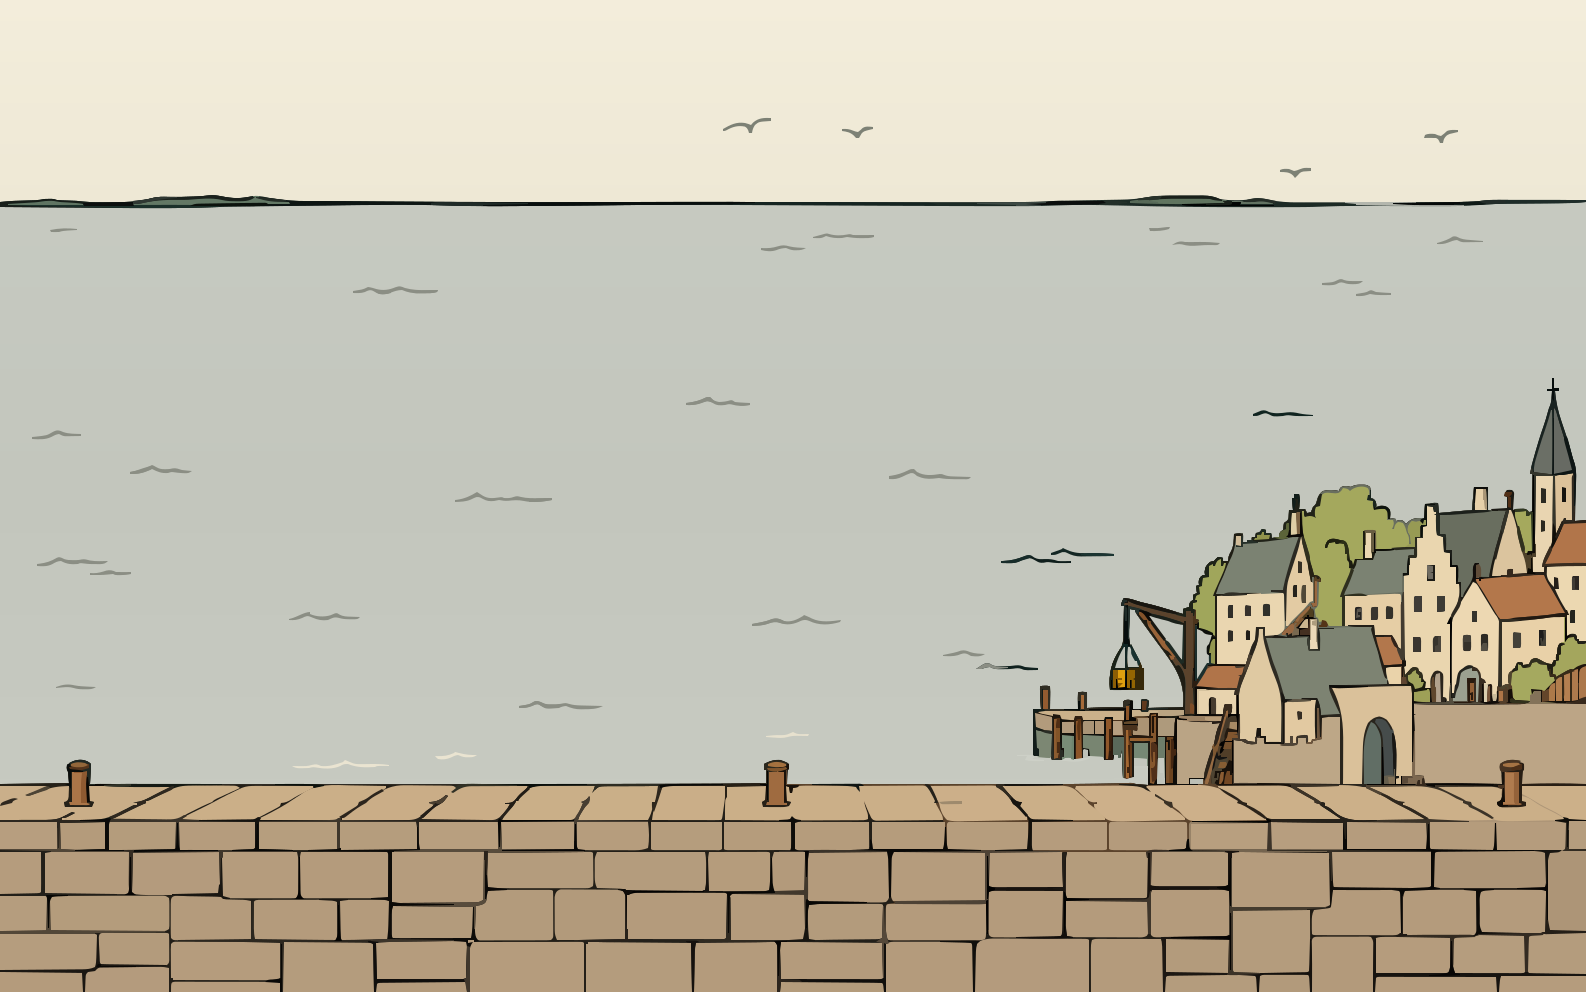
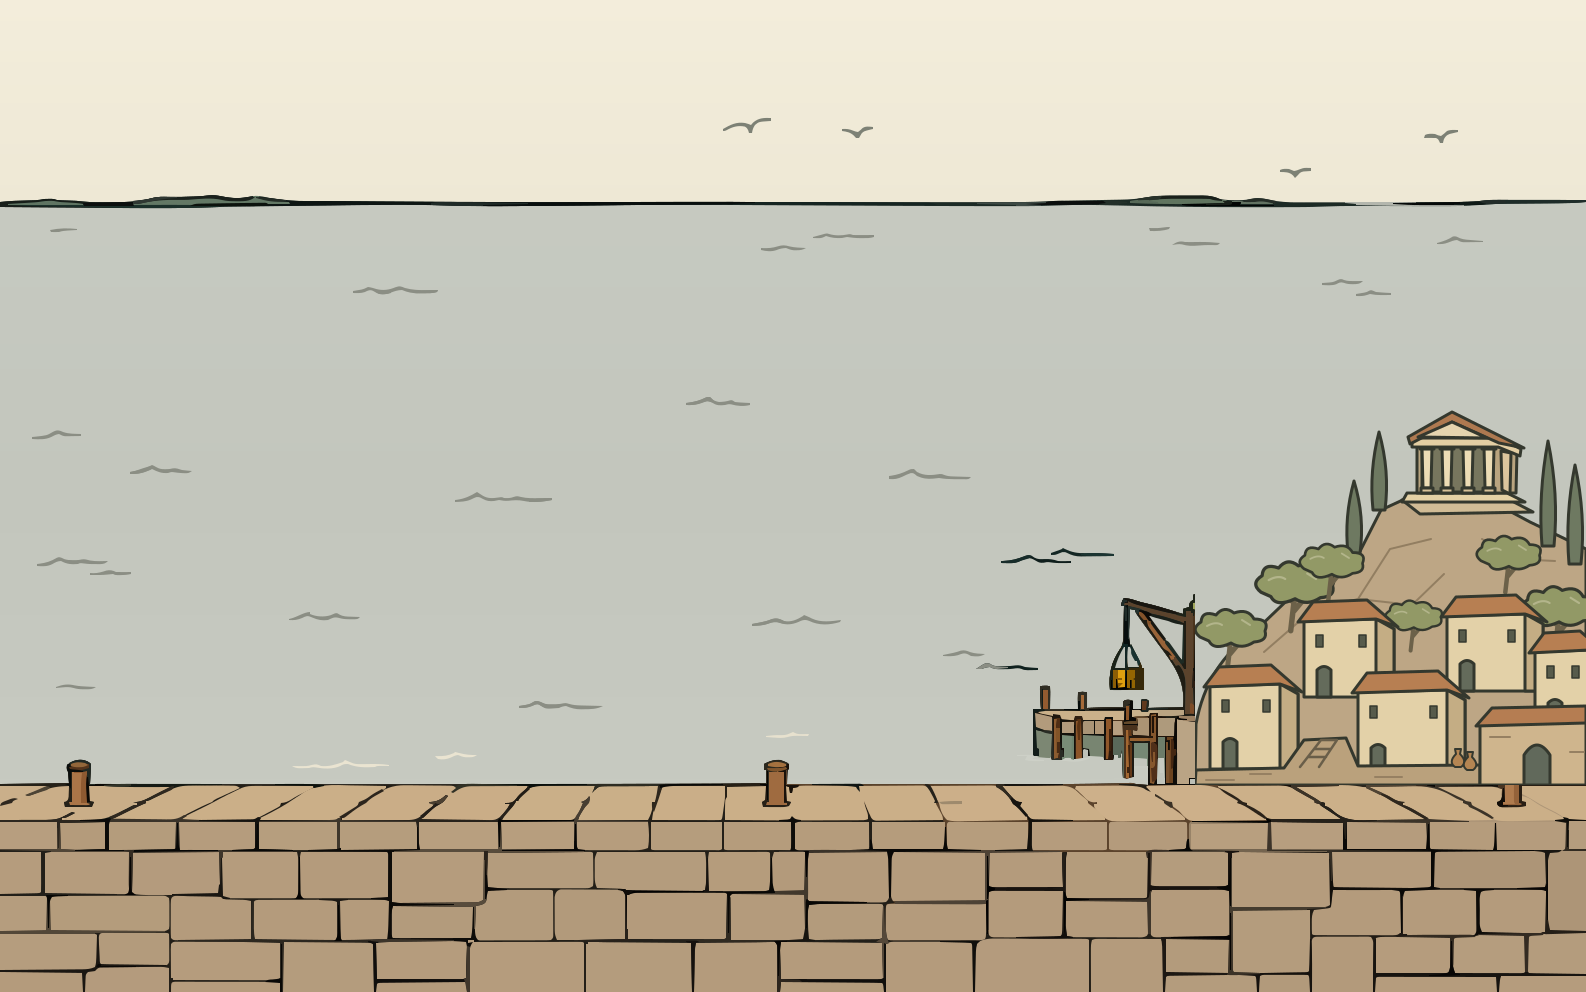
Use Greek sanctuary harbor artwork (R-0390)

Changed region(s): [[0.7415, 0.4062, 1.0, 0.8125]]

diff --git a/microcol-test/src/test/java/org/microcol/test/TC_194_F226_europe_harbor_test.java b/microcol-test/src/test/java/org/microcol/test/TC_194_F226_europe_harbor_test.java
@@ -27,7 +27,7 @@ public class TC_194_F226_europe_harbor_test extends AbstractMicroColTest {
     @Test
     @Tag("local")
     void TC_01_independent_scrolls_and_last_ship_trade() throws Exception {
-        // All four lists exceed forty-two units without resizing their artwork.
+        // R-0390: retain all four lists over the Greek sanctuary artwork.
         final EuropePortScreen port = WelcomePage.of(getContext()).loadGame()
                 .openEuroperPort();
         final EuropeHarborPage harbor = new EuropeHarborPage(getContext());
@@ -81,7 +81,7 @@ public class TC_194_F226_europe_harbor_test extends AbstractMicroColTest {
         harbor.verifyLastItemVisible("pier");
         harbor.verifyScrollPositions(1, 1, 1, 1);
         new InGameLayoutPage(getContext())
-                .saveEvidence("r0343-harbor-full.png");
+                .saveEvidence("r0390-harbor-full.png");
 
         // Resizing keeps cargo, all prices and the original image size usable.
         harbor.resize(1000, 760);
@@ -96,7 +96,7 @@ public class TC_194_F226_europe_harbor_test extends AbstractMicroColTest {
         harbor.verifyContentAlignment();
         port.verifyAvailableHoldCount(4);
         new InGameLayoutPage(getContext())
-                .saveEvidence("r0343-harbor-small.png");
+                .saveEvidence("r0390-harbor-small.png");
         port.close();
         new InGameLayoutPage(getContext()).verifyMapReturned();
     }
@@ -115,7 +115,7 @@ public class TC_194_F226_europe_harbor_test extends AbstractMicroColTest {
         harbor.verifyContentAlignment();
         harbor.verifyVoyageHeadingSpacing();
         new InGameLayoutPage(getContext())
-                .saveEvidence("r0348-harbor-wide.png");
+                .saveEvidence("r0390-harbor-wide.png");
 
         // The same 16px insets take over at and below the shared width cap.
         bars.resizeContent(1472, 1000);
@@ -133,7 +133,7 @@ public class TC_194_F226_europe_harbor_test extends AbstractMicroColTest {
         harbor.verifyAllGoodsVisible();
         harbor.verifyVoyageHeadingSpacing();
         new InGameLayoutPage(getContext())
-                .saveEvidence("r0348-harbor-narrow.png");
+                .saveEvidence("r0390-harbor-narrow.png");
     }
 
     @Test
@@ -186,12 +186,12 @@ public class TC_194_F226_europe_harbor_test extends AbstractMicroColTest {
         harbor.verifyGoodsPricesCentered();
         harbor.verifyContentAlignment();
         new InGameLayoutPage(getContext())
-                .saveEvidence("r0343-harbor-czech.png");
+                .saveEvidence("r0390-harbor-czech.png");
 
         // Czech voyage headings keep the same compact spacing when narrow.
         harbor.resize(1000, 760);
         harbor.verifyVoyageHeadingSpacing();
         new InGameLayoutPage(getContext())
-                .saveEvidence("r0381-harbor-czech-narrow.png");
+                .saveEvidence("r0390-harbor-czech-narrow.png");
     }
 }

diff --git a/docs/functional-tests.md b/docs/functional-tests.md
@@ -1,5 +1,15 @@
 # Funkční testy a ochrana chování při změnách vzhledu
 
+## R-0390 — Greek sanctuary harbor — 2026-11-01
+
+1. [R-0390](requirements/done/R-0390.md) implements selected visual variant 7 using genuine SVG paths, with temple, olive grove and coastal houses. Runtime background dimensions remain 1586 × 992. Layout, arrows, text, model operations and all gameplay assertions remain unchanged. `TC_194_F226_europe_harbor_test` retains its four scenarios and saves six R-0390 screenshots for English/Czech and narrow/wide windows. The shared Java formatter was applied using properties extracted from the `mujSunFormatter` XML profile; the reviewed test diff changes only one comment and evidence filenames.
+2. Local artwork checks in `target/r0390/artwork-check.txt` confirm no embedded bitmap, unchanged canvas, byte-identical repeated librsvg export, and exact sky/front-quay pixels. Group compositing changes 67 retained pier/hoist edge pixels by at most 9/255 per channel, without moving their shapes. The new artwork is limited to the right-hand town region. This is source/export inspection, not runtime acceptance.
+3. Initial model/JUnit run based on `cc88f12dcc54159cfe31612269ab925ff51e8761`: completion `20261101T170520Z-3ff8e199b884`, supervisor PID 98622, timeout 600 s, reports `target/verification/run-lgklevjm`. **4,819 tests: 1 failure, 0 errors, 0 skips**, 137.969 supervised seconds. The sole failure is `UnitArtworkTest.allTypesAndStatesHaveDistinctBoldArtworkInsideTransparentMargins`, FRIGATE opaque ink at 45 px. Unit artwork and that test are unchanged by R-0390; the existing independently reproduced baseline is recorded in the [ordered-batch exception](publishing.md#local-acceptance-policy). The user subsequently explicitly extended the FRIGATE-only exception to this task; see the R-0390 exception in the same policy. Failed evidence remains failed.
+4. The final town clipping and test formatting were followed by model dispatch `20261101T170746Z-283124e76e7b`, PID 99436, timeout 600 s. Targeted Docker dispatch `20261101T170852Z-f9b8725607f8`, PID 99764, timeout 1800 s, selects `TC_194_F226_europe_harbor_test,TC_06_F06_buy_and_sell_goods_test,PageVerificationContractTest`. Final model results: **4,819 tests in 357 reports, 1 failure, 0 errors, 0 skips**, 141.029 supervised seconds, reports `target/verification/run-3zawt40o`. The sole failure is the same FRIGATE check. The SVG, runtime PNG and changed TC source match the tested snapshot byte for byte. Targeted Docker results: **19 tests in 3 reports, 0 failures, 0 errors, 0 skips**, 269.414 supervised seconds; reports and six screenshots are in `target/docker-ui/run-MyfhGg`. Inspection of English full/wide and Czech narrow screenshots confirms the Greek illustration, unchanged controls and readable prices/cargo. In the deliberately crowded fixture the departure scrollbar overlays part of the decorative temple, as ship lists remain above the background. Smoke dispatch `20261101T171527Z-4f63743b9e2b`, PID 2243, timeout 480 s, passed in `target/verification/run-hkqk60rb`: **21 tests in 12 reports, 0 failures, 0 errors, 0 skips**, 218.654 s within the 420-second budget (218.851 supervised seconds). The actual verifier snapshot is `6618d46005a4a43e434f8e9f4ff153bcef0dbf18`, newer than the dispatch metadata because shared main advanced during the lock wait. No smoke repair was needed.
+5. To cover the concurrently integrated application changes on that revision, model verification was redispatched as `20261101T172255Z-ade3fb540739`, PID 5146, timeout 600 s, and the same targeted UI selection as `20261101T172255Z-ad5afe340e5d`, PID 5150, timeout 1800 s. Final model reports in `target/verification/run-7av24zzv`: **4,840 tests in 360 reports, 1 known FRIGATE failure, 0 errors, 0 skips**, 139.782 supervised seconds. Accepted under the user’s explicit R-0390 exception; no assertion or icon changed. Current tracked application/test/build inputs match both the final model and passing smoke snapshots. Final targeted reports in `target/docker-ui/run-shtZh6`: **19 tests in 3 reports, 0 failures, 0 errors, 0 skips**, 264.710 supervised seconds. Reviewed the final runtime screenshot; artwork and controls match the earlier visual review. Local acceptance is complete under the FRIGATE-only exception.
+6. Final source reviewed against `6618d46005a4a43e434f8e9f4ff153bcef0dbf18` plus this task’s diff. Nine documentation consistency checks and strict MkDocs passed; requirement moved to `done` with links updated. Remote CI, Pages and distribution publication were not inspected or claimed.
+
+
 ## R-0378 implemented and verified — 2026-11-01
 
 Integration update: R-0378 was pushed and the combined revision **`0e752b7b0f65209113ec176e7ec184383636898e`** subsequently passed 4,814 model, 38 targeted Docker and 3 native macOS tests. Concurrent artwork commits `76ee5f87` and `d147bb72` are included in that checked revision. The later `fb0d635a` artwork commit is outside this verification. Final batch smoke remains pending; detailed combined-revision results are recorded at the end of this page.

diff --git a/docs/requirements/done/R-0390.md b/docs/requirements/done/R-0390.md
@@ -1,0 +1,34 @@
+# R-0390 — Řecký přístav s chrámem a olivovníky
+
+1. Status: done
+2. Updated: 2026-11-01
+3. Related: UC-028 (Hra, plavby) a obchodní cesty v [katalogu use cases](../../use-cases.md); [grafické zadání](../../graphics.md#r-0390-recky-pristav-s-chramem).
+4. Dependencies: současná obrazovka Evropa a její modelové operace. [R-0389](../R-0389.md) samostatně vlastní přejmenování produktu.
+5. Primary area: [A06](../areas.md#a06).
+6. Related areas: A03 ilustrace a čitelnost UI; A05 zachované významy lodí a jednotek.
+7. Origin: uživatel 1. listopadu 2026 vybral variantu **7 — přístav s chrámem a olivovníky** z deseti návrhů a výslovně objednal implementaci a push. Zachování palety, síly čar, mola, šipek a nápisů navazuje na jeho předchozí zadání. Tím je rozsah této dodávky upřesněn na ilustraci, nikoli změnu názvů nebo pravidel.
+
+## 1. Summary
+
+1. Obrazovka má řecké přístavní zázemí: nízké domy, olivovníky a malý chrám na návrší v pravé části obrazu podle vybrané varianty 7.
+2. Dosavadní pozadí obsahuje severoevropské domy a kostel. Referenční snímek a přehled variant v tomto chatu zachycují vizuální záměr, nikoli runtime ověření.
+3. Mění se pouze ilustrace přístavní zástavby. Text Europe, směrové popisky, imigrační ukazatel, obchodní pravidla a rozložení ovládacích prvků zůstávají. Návrh Mateřský přístav z původního zachycení není implementovaným přejmenováním; případné přejmenování vyžaduje samostatný výběr rozsahu.
+
+## 2. Behavior
+
+1. Po otevření Evropy hráč vidí vpravo řecký chrám, olivovníky a nízké pobřežní domy. Kresba zachovává tlumenou krémovou, pískovou, olivovou, terakotovou a šedozelenou paletu i tmavé obrysy blízké původní síle čar.
+2. Moře, obloha, přední kamenné molo, přístavní jeřáb, šipky a texty zůstávají zachované. Kresba nezasahuje do středního volného prostoru; neodchytává vstup a nezakrývá ovládání.
+3. Lodě v přístavu i oba směry plavby, lidé na nábřeží, náklad, ceny a akce zůstávají dostupné při širokém i úzkém okně a v češtině i angličtině.
+4. Obchod, odplutí naložené lodě a návrat do hry zachovávají původní výsledky. Úprava nemění peníze, náklad, cestující, uložená data ani pravidla imigrace.
+
+## 3. Implementation steps
+
+1. Zachovat vlastnictví podle [architektury](../../architecture.md): pouze zdroj a odvozený obrázek používaný existujícím EuropeBackground; žádné změny modelu, AI nebo layoutu.
+2. Upravit `europe-harbor.svg` jako skutečnou vektorovou kresbu se samostatnými skupinami chrámu, stromů a domů. Původní okolí ponechat přes ořez; nový zdroj neobsahuje vložené rastry. Exportovat stejným `rsvg-convert` do PNG 1586 × 992; stávající směrové obrázky se nemění.
+3. Aktualizovat obrazové důkazy v `TC_194_F226_europe_harbor_test`, zachovat všechny herní aserce a stabilní ID. TC_01 pokrývá seznamy, obchod a menší okno, TC_02 české rozhraní, TC_03 široké a úzké okno a TC_04 odplutí s nákladem; skutečné názvy metod a běh jsou autoritativní v testu. Doplnit výběr `TC_06_F06_buy_and_sell_goods_test` a `PageVerificationContractTest`.
+4. Ověřit vektorový zdroj, opakovatelný export, nezměněné pixely mimo zástavbu, runtime screenshoty a sdílené formátování změněného Java testu. Po model/JUnit spustit cílené Docker/Xvfb UI a pevný smoke do 420 sekund, následně dokumentační kontroly a strict MkDocs.
+5. Current result: varianta 7 implementována a lokálně přijata 1. listopadu 2026. Model/JUnit má pouze uživatelem výslovně povolené původní selhání fregaty; cílené UI, smoke, vektorová a vizuální kontrola prošly. Viz [evidence a otevřená překážka přijetí](../../functional-tests.md#r-0390-greek-sanctuary-harbor-2026-11-01).
+
+## 4. Open questions
+
+1. None.

diff --git a/docs/graphics.md b/docs/graphics.md
@@ -1,5 +1,19 @@
 # Grafické podklady a jejich použití v MicroCol
 
+## R-0390 — Řecký přístav s chrámem
+
+1. **Vybráno 1. listopadu 2026:** uživatel schválil variantu 7 z přehledu návrhů — malý chrám na návrší, olivovníky a nízké řecké domy. [R-0390](requirements/done/R-0390.md) vlastní tuto úpravu ilustrace; názvy a herní pravidla se nemění.
+2. Editovatelný [vektorový zdroj](../microcol-game/src/graphics/europe-harbor.svg) má pojmenované skupiny chrámu, jednotlivých domů a původního okolí. Neobsahuje bitmapy. Původní zástavba zůstává ve zdroji pod ořezem jako reference; zobrazenou zástavbu tvoří nové vektorové tvary. Přední molo, jeřáb, moře a obloha se zachovávají. Samostatná směrová grafika ani UI nejsou změněné.
+3. Tlumené krémové omítky, terakotové střechy, olivová zeleň a písková skála používají tmavé obrysy přibližně 3 px v původním plátně. Export zachovává rozměry 1586 × 992 a současné vykreslení EuropeBackground.
+4. Opakovatelný export z kořene repozitáře:
+
+   ```sh
+   rsvg-convert -w 1586 -h 992 -o microcol-game/src/main/resources/images/europe-harbor.png microcol-game/src/graphics/europe-harbor.svg
+   ```
+
+5. Vektorový zdroj, opakovatelný export a herní snímky byly zkontrolovány 1. listopadu 2026. Cílené UI a smoke prošly; modelové testy mají pouze uživatelem povolené původní selhání fregaty. Viz [přesné výsledky a vizuální evidence](functional-tests.md#r-0390-greek-sanctuary-harbor-2026-11-01).
+
+
 ## Řecké jednotky — první návrh, 1. listopadu 2026
 
 1. Uživatel vybral **01 — Výrazná linka** a výslovně požádal o nasazení a push bez testů; [R-0386](requirements/done/R-0386.md). [Vybraný návrh](assets/greek-units-01-2026-11-01/selected-reference.png) je referenční rastr. Nové postavy nahrazují kolonisty, profesní specialisty, vozy, děla a lodě ve stávajícím společném atlasu. Názvy, schopnosti a pravidla zůstávají beze změny.

diff --git a/docs/publishing.md b/docs/publishing.md
@@ -169,6 +169,9 @@ Never force-push to publish. Task completion follows the local acceptance policy
 
 ## Local acceptance policy
 
+**R-0390 exception (2026-11-01):** the user explicitly instructed this task to ignore the known FRIGATE opaque-ink failure, complete/fix smoke and push the selected Greek harbor artwork. This exception covers only the unchanged `UnitArtworkTest.allTypesAndStatesHaveDistinctBoldArtworkInsideTransparentMargins` failure at 45 px for R-0390. Keep the icon, assertion and failed evidence unchanged; all other required checks and the 420-second smoke budget remain in force.
+
+
 **Ordered-batch exception (2026-11-01):** the user explicitly permits integration for the R-0378 → R-0377 → R-0376 → R-0228 → R-0227 → R-0225 → R-0221 → R-0216 → R-0211 → R-0382 → R-0383 batch despite the independently reproduced baseline `UnitArtworkTest.allTypesAndStatesHaveDistinctBoldArtworkInsideTransparentMargins` FRIGATE opaque-ink failure at 45 px. Preserve the artwork, test and failed reports; continue running the full model selection. This exception covers only that existing failure, not new failures, errors or skips. Smoke runs once at the end of this batch as already requested. Native macOS UI execution remains manual-only.
 
 **Manual macOS checks (amended 2026-11-01):** native macOS UI execution is optional and runs only when explicitly requested. It is not part of routine targeted UI, smoke, regression, or local acceptance, including changes to platform shortcuts. Routine UI verification uses Docker/Linux; model/JUnit tests cover platform-selection logic. Host desktop availability must not gate ordinary work. Historical native results remain evidence, not recurring requirements. This does not change native distribution packaging checks.

diff --git a/docs/requirements/backlog.md b/docs/requirements/backlog.md
@@ -1,8 +1,8 @@
 # Current requirement backlog
 
-## Greek home-port screen — 2026-11-01
+## Greek sanctuary harbor — 2026-11-01
 
-1. [R-0390](R-0390.md), status `new`, captures Greek naming and presentation of the current Europe screen. Primary area A06; A03 presentation and A05 ship/unit meanings are cross-area dependencies. **Mateřský přístav / Home Port** is a proposal awaiting confirmation. Scope and remaining thematic labels need refinement; implementation has not started.
+1. [R-0390](done/R-0390.md), status `done`, implements the user's selected variant 7: temple, olive grove and low coastal houses. Primary area A06; A03 illustration and A05 preserved ship meanings. The refined scope preserves the palette, line weight, quay, arrows, labels and gameplay. Local acceptance passed under the explicit FRIGATE-only exception: 19 targeted UI checks and 21 smoke checks passed. [Evidence](../functional-tests.md#r-0390-greek-sanctuary-harbor-2026-11-01).
 
 ## Complete Akropia rename — 2026-11-01
 
